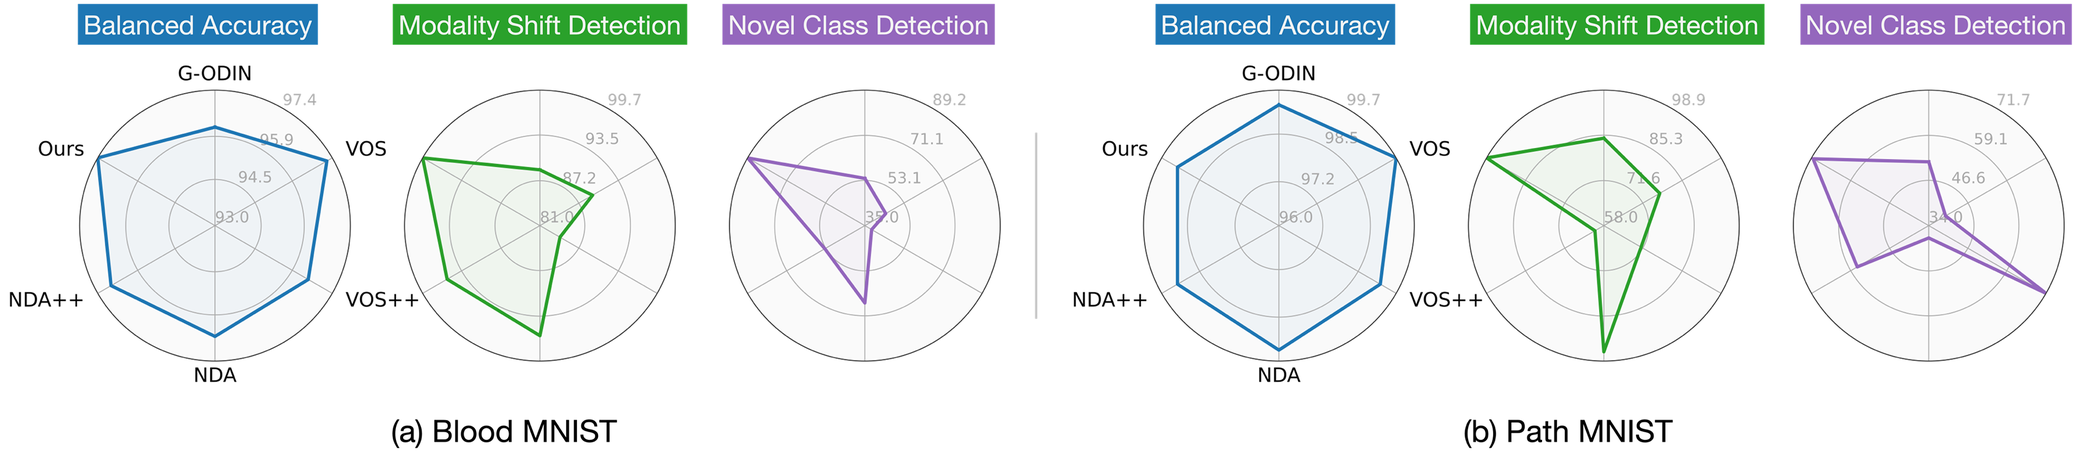
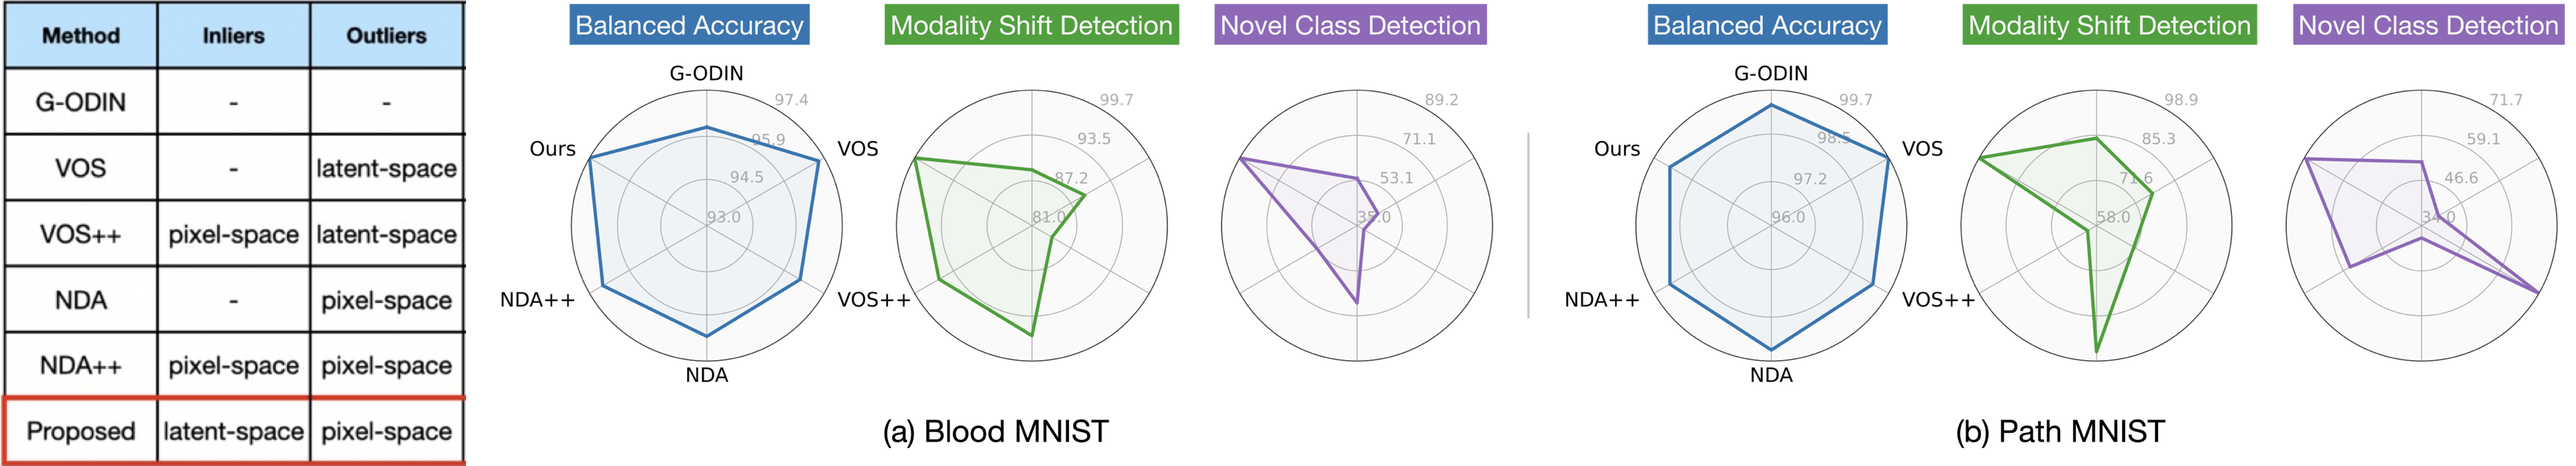
updated approach captions and result figs

diff --git a/_site/index.html b/_site/index.html
@@ -323,25 +323,21 @@ To be posted
 <div class="gallery">
   <div class="main-display"> 
     <div class="main-image">
-      <img src="assets/img/results_new_1.png" alt="" class="gallery-image" id="mainImage" />
-      <p>We demonstrate the efficacy of our proposed calibration protocol on a variety of open-set recongnition settings namely modality shifts that contain semantically disparate concepts, and novel classes that ontain images unssen during training</p>
+      <img src="assets/img/results_new_2.png" alt="" class="gallery-image" id="mainImage" />
+      <p>Our calibration protocol consistently outperforms all baselines (G-ODIN, VOS, VOS++, NDA, NDA++) by significant margins (10% to 30% on average for Modality Shift Detection and 15% to 28% for Novel Class Detection ) in terms of AUROC scores without compromising on the ID accuracy.</p>
     </div>
   </div>
   <div class="thumbnails">
     
-      <div class="thumbnail" onclick="changeImage(this, 'assets/img/results_new_1.png', 'We demonstrate the efficacy of our proposed calibration protocol on a variety of open-set recongnition settings namely modality shifts that contain semantically disparate concepts, and novel classes that ontain images unssen during training', 0)">
-        <img src="assets/img/results_new_1.png" alt="" class="gallery-thumbnail" />
-      </div>
-    
-      <div class="thumbnail" onclick="changeImage(this, 'assets/img/results_new_2.png', 'Our calibration protocol consistently outperforms all baselines (VOS, VOS++, NDA, NDA++) by significant margins (10% to 30% on average for Modality Shift Detection and 15% to 28% for Novel Class Detection ) in terms of AUROC scores without compromising on the ID accuracy.', 1)">
+      <div class="thumbnail" onclick="changeImage(this, 'assets/img/results_new_2.png', 'Our calibration protocol consistently outperforms all baselines (G-ODIN, VOS, VOS++, NDA, NDA++) by significant margins (10% to 30% on average for Modality Shift Detection and 15% to 28% for Novel Class Detection ) in terms of AUROC scores without compromising on the ID accuracy.', 0)">
         <img src="assets/img/results_new_2.png" alt="" class="gallery-thumbnail" />
       </div>
     
-      <div class="thumbnail" onclick="changeImage(this, 'assets/img/results_2_1.png', 'Our approach better demarcates between ID and OOD distributions as seen in the histogram plots of the energy scores in comparison to the baselines.', 2)">
+      <div class="thumbnail" onclick="changeImage(this, 'assets/img/results_2_1.png', 'Our approach better demarcates between ID and OOD distributions as seen in the histogram plots of the energy scores in comparison to the baselines.', 1)">
         <img src="assets/img/results_2_1.png" alt="" class="gallery-thumbnail" />
       </div>
     
-      <div class="thumbnail" onclick="changeImage(this, 'assets/img/results_3_1.png', 'In fact, our approach can effectively detect even covariate shifts and demonstrates a substantial improvement of approximately 7% to 35% in AUROC compared to the baselines.', 3)">
+      <div class="thumbnail" onclick="changeImage(this, 'assets/img/results_3_1.png', 'In fact, our approach can effectively detect even covariate shifts and demonstrates a substantial improvement of approximately 7% to 35% in AUROC compared to the baselines.', 2)">
         <img src="assets/img/results_3_1.png" alt="" class="gallery-thumbnail" />
       </div>
     
@@ -349,7 +345,7 @@ To be posted
 </div>
 
 <script>
-var gallery_data = [{"src":"assets/img/results_new_1.png","alt":null,"caption":"We demonstrate the efficacy of our proposed calibration protocol on a variety of open-set recongnition settings namely modality shifts that contain semantically disparate concepts, and novel classes that ontain images unssen during training"},{"src":"assets/img/results_new_2.png","alt":null,"caption":"Our calibration protocol consistently outperforms all baselines (VOS, VOS++, NDA, NDA++) by significant margins (10% to 30% on average for Modality Shift Detection and 15% to 28% for Novel Class Detection ) in terms of AUROC scores without compromising on the ID accuracy."},{"src":"assets/img/results_2_1.png","alt":null,"caption":"Our approach better demarcates between ID and OOD distributions as seen in the histogram plots of the energy scores in comparison to the baselines."},{"src":"assets/img/results_3_1.png","alt":null,"caption":"In fact, our approach can effectively detect even covariate shifts and demonstrates a substantial improvement of approximately 7% to 35% in AUROC compared to the baselines."}];
+var gallery_data = [{"src":"assets/img/results_new_2.png","alt":null,"caption":"Our calibration protocol consistently outperforms all baselines (G-ODIN, VOS, VOS++, NDA, NDA++) by significant margins (10% to 30% on average for Modality Shift Detection and 15% to 28% for Novel Class Detection ) in terms of AUROC scores without compromising on the ID accuracy."},{"src":"assets/img/results_2_1.png","alt":null,"caption":"Our approach better demarcates between ID and OOD distributions as seen in the histogram plots of the energy scores in comparison to the baselines."},{"src":"assets/img/results_3_1.png","alt":null,"caption":"In fact, our approach can effectively detect even covariate shifts and demonstrates a substantial improvement of approximately 7% to 35% in AUROC compared to the baselines."}];
 var currentThumbnail = document.querySelector('.thumbnail');
 var currentIndex = 0;
 currentThumbnail.style.boxShadow = '0px 0px 10px 3px rgba(0,0,0,0.75)';
